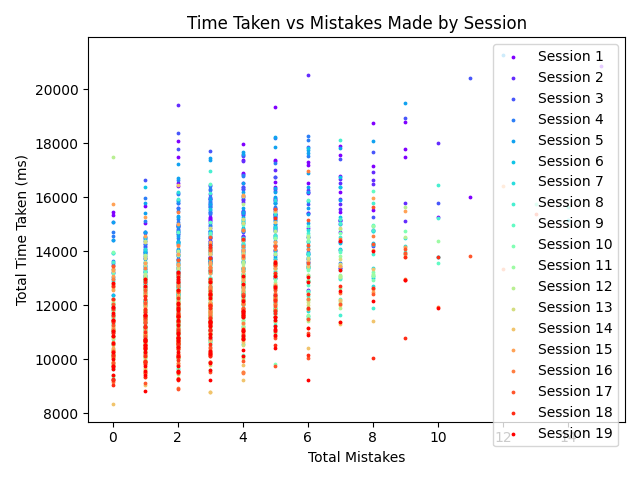
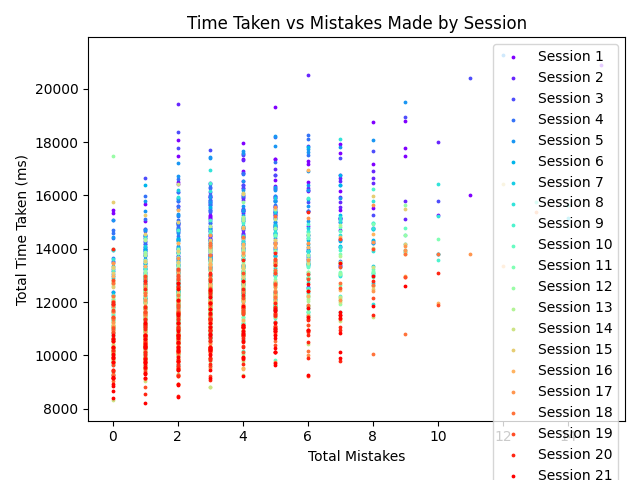
Mistake chains and Session 21

diff --git a/scripts/sketch.js b/scripts/sketch.js
@@ -290,18 +290,6 @@ class Keyboard {
 				}
 
 				for (let i = 0; i < 26; i++) {
-					// Set key press records
-					if (this.keys[i].isDown && !this.keys[i].prevDown) {
-						const dateTime = new Date();
-						const timestamp = `${dateTime.getFullYear()}-${String(dateTime.getMonth() + 1).padStart(2, '0')}-${String(dateTime.getDate()).padStart(2, '0')} ${String(dateTime.getHours()).padStart(2, '0')}:${String(dateTime.getMinutes()).padStart(2, '0')}:${String(dateTime.getSeconds()).padStart(2, '0')}.${String(dateTime.getMilliseconds()).padStart(3, '0')}`;
-						localStorage.setItem(timestamp, [this.indexKeys[i], this.keys[i].content, 'pressed', this.time, this.mistakes]);
-					}
-					if (!this.keys[i].isDown && this.keys[i].prevDown) {
-						const dateTime = new Date();
-						const timestamp = `${dateTime.getFullYear()}-${String(dateTime.getMonth() + 1).padStart(2, '0')}-${String(dateTime.getDate()).padStart(2, '0')} ${String(dateTime.getHours()).padStart(2, '0')}:${String(dateTime.getMinutes()).padStart(2, '0')}:${String(dateTime.getSeconds()).padStart(2, '0')}.${String(dateTime.getMilliseconds()).padStart(3, '0')}`;
-						localStorage.setItem(timestamp, [this.indexKeys[i], this.keys[i].content, 'released', this.time, this.mistakes]);
-					}
-
 					if (this.keys[i].isDown && ingame) {
 						if (this.keys[i].content == this.expectedNext) {
 							this.pressed[i] = true;
@@ -320,6 +308,18 @@ class Keyboard {
 						this.immune[i] = false;
 						this.keys[i].appearance["stroke"] = this.pressed[i] ? this.style["downStroke"] : this.style["upStroke"];
 						this.keys[i].appearance["fill"] = this.pressed[i] ? this.style["downFill"] : this.style["upFill"];
+					}
+
+					// Set key press records
+					if (this.keys[i].isDown && !this.keys[i].prevDown) {
+						const dateTime = new Date();
+						const timestamp = `${dateTime.getFullYear()}-${String(dateTime.getMonth() + 1).padStart(2, '0')}-${String(dateTime.getDate()).padStart(2, '0')} ${String(dateTime.getHours()).padStart(2, '0')}:${String(dateTime.getMinutes()).padStart(2, '0')}:${String(dateTime.getSeconds()).padStart(2, '0')}.${String(dateTime.getMilliseconds()).padStart(3, '0')}`;
+						localStorage.setItem(timestamp, [this.indexKeys[i], this.keys[i].content, 'pressed', this.time, this.mistakes]);
+					}
+					if (!this.keys[i].isDown && this.keys[i].prevDown) {
+						const dateTime = new Date();
+						const timestamp = `${dateTime.getFullYear()}-${String(dateTime.getMonth() + 1).padStart(2, '0')}-${String(dateTime.getDate()).padStart(2, '0')} ${String(dateTime.getHours()).padStart(2, '0')}:${String(dateTime.getMinutes()).padStart(2, '0')}:${String(dateTime.getSeconds()).padStart(2, '0')}.${String(dateTime.getMilliseconds()).padStart(3, '0')}`;
+						localStorage.setItem(timestamp, [this.indexKeys[i], this.keys[i].content, 'released', this.time, this.mistakes]);
 					}
 
 					this.keys[i].update(this.keySize, this.keySize);

diff --git a/analysis/raw_to_session.py b/analysis/raw_to_session.py
@@ -39,6 +39,29 @@ def raw_to_session(session_ID, outlier_threshold=(99999, 99)):
                 ):
                     key_releases.append(run_row["Key"])
 
+        # Calculate mistake chains
+        presses_only = run_data[run_data["Action"] == "pressed"]
+        presses_only.reset_index(drop=True, inplace=True)
+        releases_only = run_data[run_data["Action"] == "released"]
+        releases_only.reset_index(drop=True, inplace=True)
+        chains = 0
+        chain = False
+        only = (
+            releases_only if session_ID == "n" or int(session_ID) < 22 else presses_only
+        )
+        for event_index, run_row in only.iterrows():
+            if event_index == 0:
+                if run_row["Mistakes"] > 0:
+                    chains += 1
+                    chain = True
+            elif chain:
+                if not run_row["Mistakes"] > only.iloc[event_index - 1]["Mistakes"]:
+                    chain = False
+            elif not chain:
+                if run_row["Mistakes"] > only.iloc[event_index - 1]["Mistakes"]:
+                    chains += 1
+                    chain = True
+
         distances_sum = sum(
             distances.get(f"{prev.upper()}{current.upper()}", 0)
             for prev, current in zip(key_releases, key_releases[1:])
@@ -53,6 +76,7 @@ def raw_to_session(session_ID, outlier_threshold=(99999, 99)):
                 "Total Time Taken (ms)": total_time,
                 "Total Mistakes": total_mistakes,
                 "Layout Difficulty": layout_difficulty,
+                "Mistake Chains": chains,
             }
         )
 
@@ -70,6 +94,7 @@ def raw_to_session(session_ID, outlier_threshold=(99999, 99)):
             "Total Time Taken (ms)",
             "Total Mistakes",
             "Layout Difficulty",
+            "Mistake Chains",
         ]
     ]
 

diff --git a/analysis/generate_agg_data.py b/analysis/generate_agg_data.py
@@ -57,7 +57,6 @@ def generate_agg_data(sessions):
 
     # Calculating median values for each session and num 0-mistake runs
     medians_time_taken = [df["Total Time Taken (ms)"].median() for df in dfs]
-    medians_mistakes = [df["Total Mistakes"].median() for df in dfs]
     nom = [df["Total Mistakes"].value_counts().get(0, 0) for df in dfs]
 
     # Plotting Median Total Time Taken
@@ -66,11 +65,17 @@ def generate_agg_data(sessions):
     ax1.plot(sessions, medians_time_taken, color="tab:blue")
     ax1.tick_params(axis="y", labelcolor="tab:blue")
 
-    # Creating a second y-axis for Median Total Mistakes
+    # Creating a second y-axis for average Total Mistakes
     ax2 = ax1.twinx()
-    ax2.set_ylabel("Median Total Mistakes", color="tab:red")
-    ax2.plot(sessions, medians_mistakes, color="tab:red")
+    ax2.set_ylabel("Mean Total Mistakes", color="tab:red")
+    ax2.plot(sessions, [df["Total Mistakes"].mean() for df in dfs], color="tab:red")
     ax2.tick_params(axis="y", labelcolor="tab:red")
+
+    # Creating third y-axis for mistake chains
+    # ax3 = ax1.twinx()
+    # ax3.set_ylabel("Average number of Mistake chains", color="tab:green")
+    # ax3.plot(sessions, [df["Mistake Chains"].mean() for df in dfs], color="tab:green")
+    # ax3.tick_params(axis="y", labelcolor="tab:green")
 
     # Finalizing and saving the plot
     fig.tight_layout()
@@ -103,7 +108,7 @@ def generate_agg_data(sessions):
     print("Aggregate data generated successfully.")
 
 
-upr = 20
+upr = 22
 
 generate_agg_data([str(i) for i in range(1, upr)])
 generate_lm(

diff --git a/analysis/generate_session_data.py b/analysis/generate_session_data.py
@@ -6,23 +6,25 @@ from generate_lm import generate_lm
 from generate_rolling import generate_rolling
 
 
-session_ID = "19"
+session_ID = "21"
 
-localStorage_to_raw(session_ID)
-raw_to_session(session_ID)
-generate_text_summary(session_ID)
-for i in range(10, 51, 10):
-    generate_rolling(session_ID, i)
-generate_lm(
-    predictor="Total Mistakes",
-    response="Total Time Taken (ms)",
-    session_ID=session_ID,
-    output_folder_name="time_given_mistakes",
-)
-generate_lm(
-    predictor="Layout Difficulty",
-    response="Total Time Taken (ms)",
-    session_ID=session_ID,
-    output_folder_name="time_given_diff",
-)
-generate_plots(session_ID=session_ID)
+for i in range(1, 22):
+    session_ID = str(i)
+    localStorage_to_raw(session_ID)
+    raw_to_session(session_ID)
+    generate_text_summary(session_ID)
+    for i in range(10, 51, 10):
+        generate_rolling(session_ID, i)
+    generate_lm(
+        predictor="Total Mistakes",
+        response="Total Time Taken (ms)",
+        session_ID=session_ID,
+        output_folder_name="time_given_mistakes",
+    )
+    generate_lm(
+        predictor="Layout Difficulty",
+        response="Total Time Taken (ms)",
+        session_ID=session_ID,
+        output_folder_name="time_given_diff",
+    )
+    generate_plots(session_ID=session_ID)

diff --git a/README.md b/README.md
@@ -47,7 +47,7 @@ Note: "raw_to_session(...)" has a third parameter called "outlier_threshhold" yo
 
 ### Insights
 
-Improvement over time visualizations:
+Below are improvement over time visualizations. The hypothesized trend in average time taken (ms) over sessions consists of periodic plateaus of increasing lengths, punctuated by rapid periods of improvement. These plateaus are reminiscent of resistance lines if you're into day trading, but I think they're most accurately called attractors. More analysis needed.
 * ![Median time and mistakes by session](analysis/aggregate/vis/agg_plot.png)
 * ![Number 0-mistake runs by session](analysis/aggregate/vis/nom.png)
 
